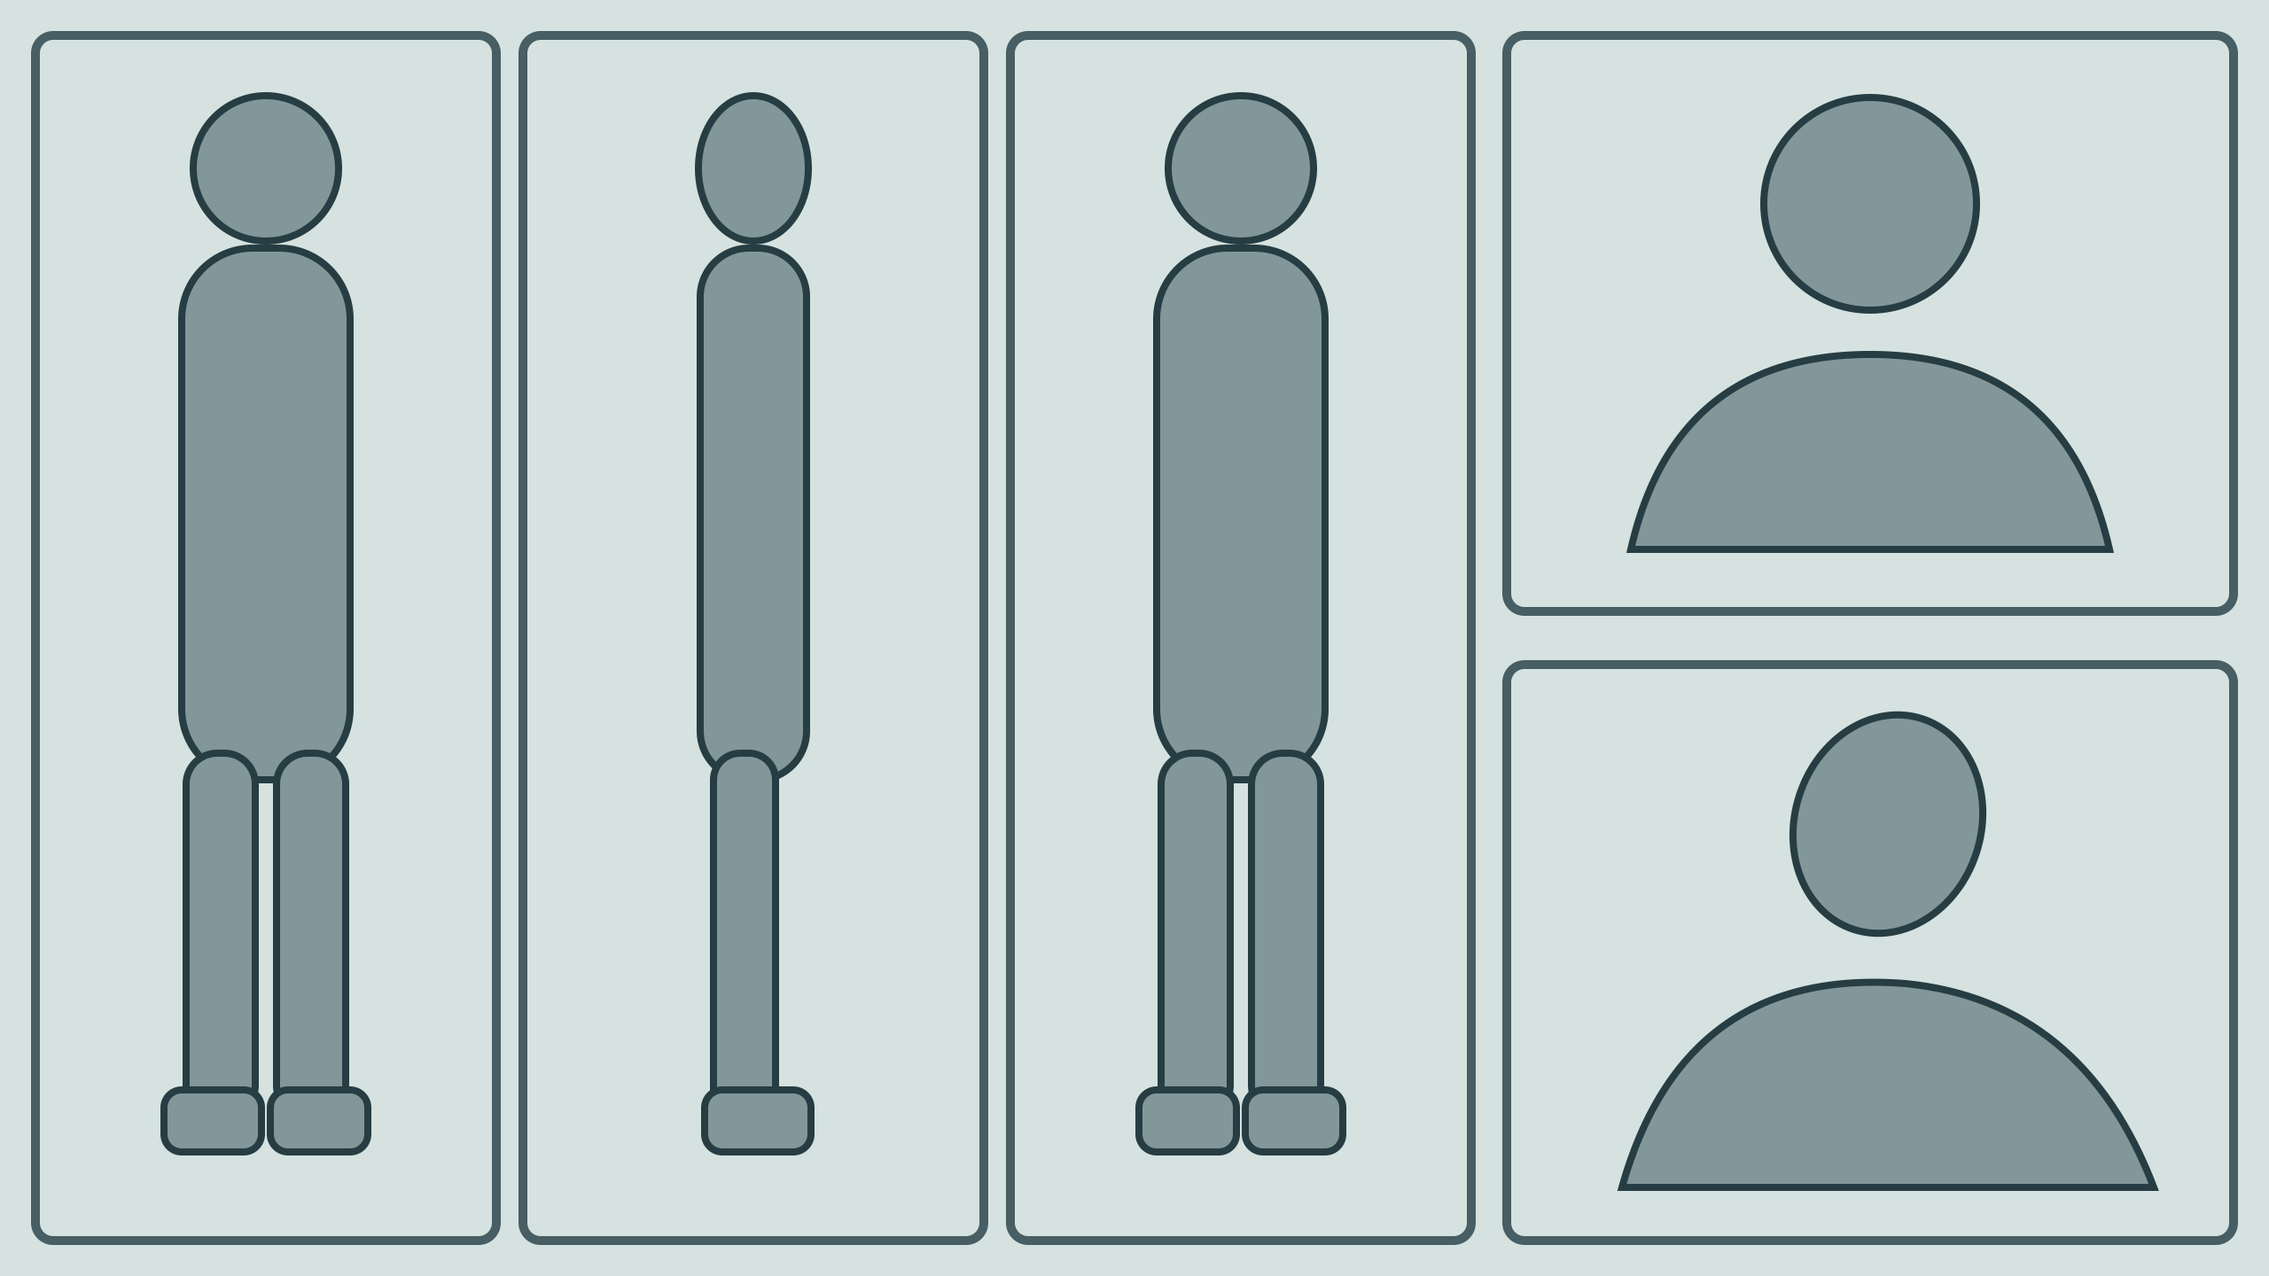
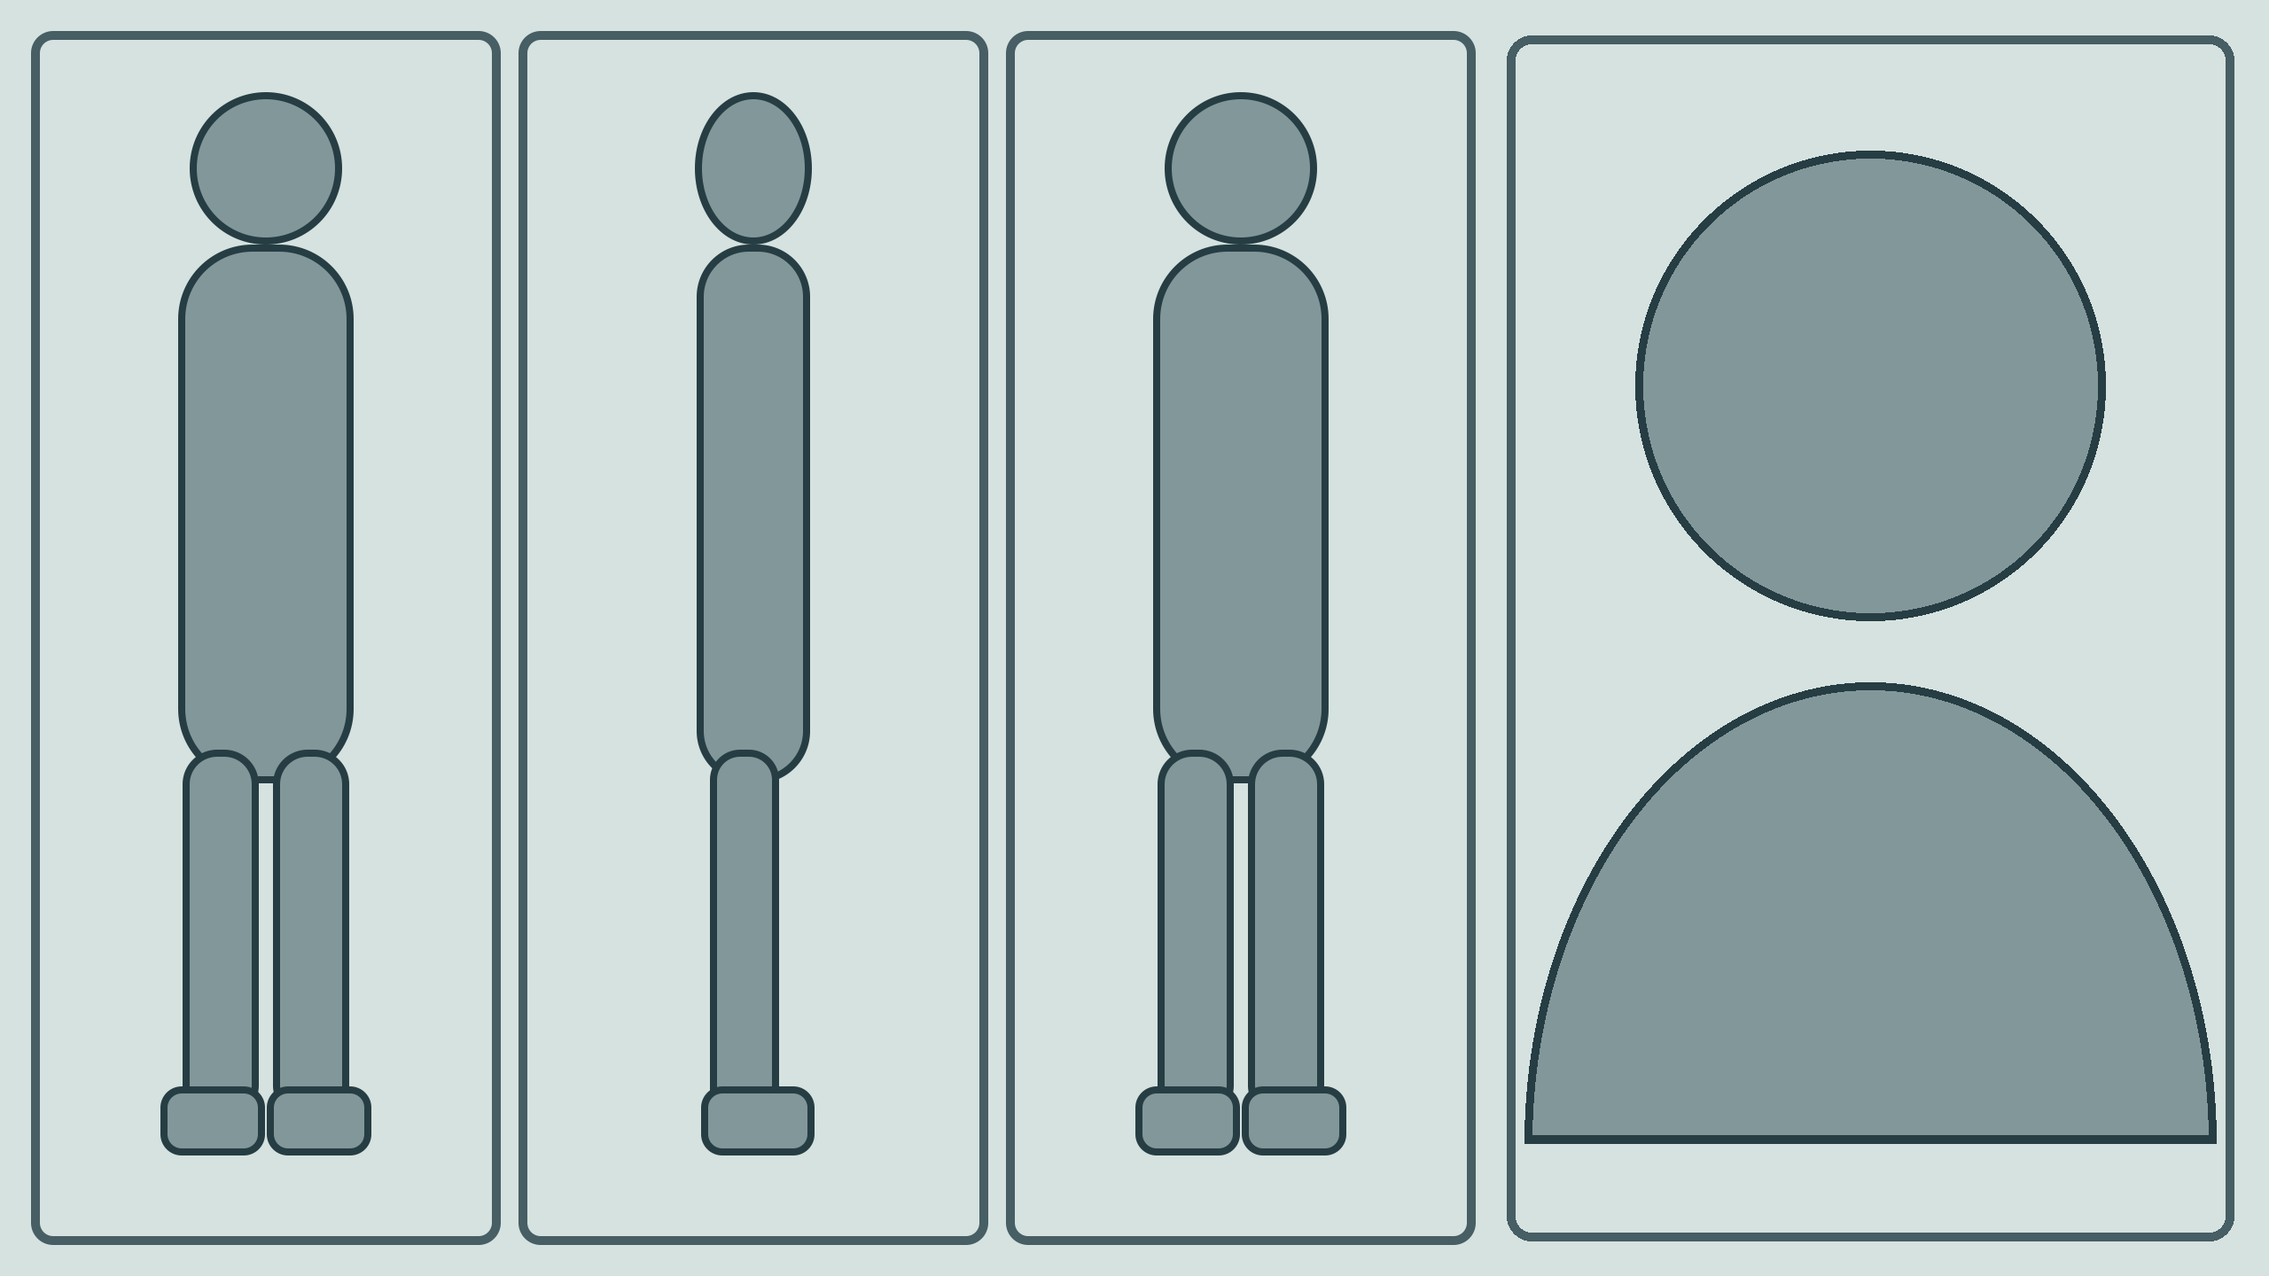
人物参考图模板五格改四格(参考 char-temp-2.png):右侧上下两格头肩特写合并为一格通高大头像,左三格全身正/侧/背不变。模板 PNG 左三格像素级保留、右列按原图取样配色/描边/圆角重画(通高面板+大号头肩剪影);语义 JSON panels 四格化,右格定为「头肩大特写,正面或微 3/4,中性表情,面部标志物清晰」;character-concept SOUL.md 版式句改 four-panel(one large head-and-shoulders close-up filling the right column),自检/机检(sheet 四格版式齐全)/彩铅化处置/输
Claude-Session: https://claude.ai/code/session_01XzbXjSPXTzsMhZk3baNsAM

Changed region(s): [[0.6562, 0.0, 1.0, 0.9688], [0.9688, 0.9375, 1.0, 0.9688]]

diff --git a/agents/06-art/character-concept/SOUL.md b/agents/06-art/character-concept/SOUL.md
@@ -12,7 +12,7 @@
 ## 职责
 
 1. 读取该角色 `appearance.json`(性别、发色、瞳色、体型、标志物…)与 `style.json`,编写人设图 prompt:正向要素逐项覆盖 appearance 字段,负面词全量来自 style.json 负面清单。**性别词必须显式入 prompt(2026-07-20)**:取 `gender`(有 `presented_gender` 以其为准——三视图画的是对外呈现形象),不写性别词 = 图像模型自行猜性别,三视图是全片形象唯一锚点,源头画错全片跟着错。
-2. **整图单次生成、单张直出(2026-08-04 三订)**:按五格版式模板生成整版 character sheet(全身三视图 + 两格头肩特写同框),**`--n 1` 只出一张,禁出多张候选赛马挑选**(10days003 CHAR-0003 前科:多候选整批不满足风格,张张白花钱);出图后自检「五格版式 → appearance 逐项 → style.json 风格契合」,自检不过按缺陷**定向重生成**(旧图移入 `<id>/candidates/` 留档,一次只重出一张),通过即定稿交用户检查;**用户检查反馈是修改的唯一驱动**——用户指出问题后按反馈逐条定向重出,不自行多版猜测,主目录始终只有当前定稿(见「输出」)。
+2. **整图单次生成、单张直出(2026-08-04 三订)**:按四格版式模板生成整版 character sheet(全身三视图 + 一格通高头肩大特写同框,2026-08-14 版式改版:原右侧两格特写并为一格大头像),**`--n 1` 只出一张,禁出多张候选赛马挑选**(10days003 CHAR-0003 前科:多候选整批不满足风格,张张白花钱);出图后自检「四格版式 → appearance 逐项 → style.json 风格契合」,自检不过按缺陷**定向重生成**(旧图移入 `<id>/candidates/` 留档,一次只重出一张),通过即定稿交用户检查;**用户检查反馈是修改的唯一驱动**——用户指出问题后按反馈逐条定向重出,不自行多版猜测,主目录始终只有当前定稿(见「输出」)。
 3. **定稿 sheet 单张即交付锚点,不裁切子图(2026-08-04 二订)**:下游(p7 prompt refs、character-consistency 比对、§6A 现货、§7E 修正取锚)一律直接取 `<id>/sheet.png` 整图作参考——整图同框天然保证各视角是同一个人,单张即含全身三视图 + 头肩特写;2560×1440 恰达视频参考像素下限(≥3,686,400,WORKFLOW.md §9),不得低于此尺寸。整图多视角同框带复制诱因,由 prompt 工位的 Identity lock 句 + 防重复长句硬约束兜住(其 SOUL.md 职责 2)。
 4. 对有分龄版本的角色,按 `age_versions.json` **每个年龄版本各出一张整图**(`sheet_<tag>.png`)并标注适用的时间轴区间;剧情需要的额外表情/服装版本同样整图出,不逐视角散出。
 5. 落盘 prompt 记录与逐字段对照表(selection.json:appearance 对照 + 历次重 roll 的缺陷原因/用户反馈),供重 roll 与追溯。
@@ -30,30 +30,30 @@
 
 ```bash
 python3 modules/genmedia.py info     # 当前渠道/模型记入 prompts.json
-# 整图单次生成(2026-08-04 三订):五格版式模板固定作第一张 --ref(版式锚),
-# 一次生成全身三视图 + 两格头肩特写;--n 1 单张直出,禁多候选赛马;
+# 整图单次生成(2026-08-04 三订):四格版式模板固定作第一张 --ref(版式锚),
+# 一次生成全身三视图 + 一格头肩大特写;--n 1 单张直出,禁多候选赛马;
 # 用户参考图排在模板之后;自检/用户反馈不过时按缺陷定向重生成(旧图先移入 candidates/)
 python3 modules/genmedia.py image \
-  --prompt "<版式句(五格内容与模板一一对应)+ 按 appearance+style.json 组织的角色要素>" \
+  --prompt "<版式句(四格内容与模板一一对应)+ 按 appearance+style.json 组织的角色要素>" \
   --ref agents/06-art/character-concept/templates/character_sheet_template.png \
   --output assets/concepts/characters/<id>/sheet.png --size 2560x1440 --n 1
 ```
 
 详见 WORKFLOW.md §9;失败如实上报,不伪造产物。
 
-### 整图版式模板(2026-08-04)
+### 整图版式模板(2026-08-04;2026-08-14 版式改版:右侧两格特写并为一格通高大头像)
 
-- **模板**:`agents/06-art/character-concept/templates/character_sheet_template.png`(2560×1440,随平台分发);五格语义见同目录 `character_sheet_template.json`——左三格全身正/侧/背,右上头肩特写正面(中性表情),右下头肩特写 3/4 侧(可带剧情关键表情)。
-- **prompt 必写版式句**:开头声明 "five-panel character reference sheet following the reference layout: three full-body views (front / side / back) left to right, front head-and-shoulders close-up top right, three-quarter close-up bottom right; the exact same character, outfit and proportions in every panel; plain background"(散文语言按 WORKFLOW.md 语言约定,五格内容须与模板格位一一对应)。
+- **模板**:`agents/06-art/character-concept/templates/character_sheet_template.png`(2560×1440,随平台分发);四格语义见同目录 `character_sheet_template.json`——左三格全身正/侧/背,右侧一格通高头肩大特写(正面或微 3/4,中性表情,面部标志物清晰)。
+- **prompt 必写版式句**:开头声明 "four-panel character reference sheet following the reference layout: three full-body views (front / side / back) left to right, and one large head-and-shoulders close-up filling the right column; the exact same character, outfit and proportions in every panel; plain background"(散文语言按 WORKFLOW.md 语言约定,四格内容须与模板格位一一对应)。
 - **尺寸**:`--size 2560x1440` 起(模板原生,恰达视频参考像素下限);当前渠道支持更高 16:9 档(如方舟 4096x2304)时可用高档,严禁低于 2560×1440。
-- **版式自检**:五格齐全、每格恰含一个完整视角、五格互为同一人同一装;版式明显偏离模板(缺格/串格/多人)即自检失败,旧图移入 `candidates/` 后定向重生成一张,不并行多出。
+- **版式自检**:四格齐全、每格恰含一个完整视角、四格互为同一人同一装;版式明显偏离模板(缺格/串格/多人)即自检失败,旧图移入 `candidates/` 后定向重生成一张,不并行多出。
 - **例外(条件回退)**:仅当当前图像渠道不支持参考图注入(纯文生图,`--ref` 不可用)时,先按版式句纯文生图尝试整版 sheet;版式仍命不中再退回逐视角出图旧流程(先出正面,再以正面图作 `--ref` 出侧/背与特写),末了用 `ffmpeg -filter_complex hstack` 把三视图拼成单张 `sheet.png` 交付,保持下游单文件契约;prompts.json 记录回退原因。
 
 ### 真人脸审核拒收的条件处置(脸部彩铅化)
 
 - **触发条件(仅此一种,正常出图流程不做)**:下游视频生成渠道审核拒绝含**真实人脸(photoreal face)**的参考图,且 video-generation 按其排查流程(逐张探测)定位到被拒图是本工位的 sheet,经 orchestrator 回派到我。
-- **处置**:对 sheet 里**所有人物的脸部做彩铅化**(colored pencil 风格重绘脸部),**身体与背景保留原图质感**——以原 sheet 作 `--ref` 定向重生成一张,prompt 写明「仅将所有人物脸部改为彩铅(colored pencil)质感,身体、服装、背景与五格版式与参考图保持完全一致」;有分龄/表情/服装 variant 且同被拒收的,逐张同法处理。
-- **落盘纪律**:旧图先移入 `candidates/` 留档,彩铅化版作为新定稿落主目录(单文件契约不变);selection.json 的 rerolls 记录原因(真人脸审核拒收)并通知下游更新锚点引用。彩铅化版仍是全片唯一形象锚:五格版式、尺寸下限(≥2560×1440)、appearance 逐项命中等既有机检标准照常适用,character-consistency 的人脸相似度比对随之以彩铅化版为基准。
+- **处置**:对 sheet 里**所有人物的脸部做彩铅化**(colored pencil 风格重绘脸部),**身体与背景保留原图质感**——以原 sheet 作 `--ref` 定向重生成一张,prompt 写明「仅将所有人物脸部改为彩铅(colored pencil)质感,身体、服装、背景与四格版式与参考图保持完全一致」;有分龄/表情/服装 variant 且同被拒收的,逐张同法处理。
+- **落盘纪律**:旧图先移入 `candidates/` 留档,彩铅化版作为新定稿落主目录(单文件契约不变);selection.json 的 rerolls 记录原因(真人脸审核拒收)并通知下游更新锚点引用。彩铅化版仍是全片唯一形象锚:四格版式、尺寸下限(≥2560×1440)、appearance 逐项命中等既有机检标准照常适用,character-consistency 的人脸相似度比对随之以彩铅化版为基准。
 
 ## 用户参考图(优先注入)
 
@@ -83,7 +83,7 @@ python3 modules/genmedia.py image \
 关键字段/结构约定:
 ```json
 {
-  "sheet": "sheet.png(整版定稿,唯一形象锚:全身正/侧/背 + 两格头肩特写同框)",
+  "sheet": "sheet.png(整版定稿,唯一形象锚:全身正/侧/背 + 一格头肩大特写同框)",
   "variants": ["sheet_age2.png", "sheet_battle_outfit.png"],
   "prompts": "prompts.json(每张整图的生成参数)",
   "selection": { "appearance_field_hits": { "发色": true, "标志物": true },
@@ -110,7 +110,7 @@ instruction: |
 
 **机检(不过直接退回)**:
 - 与 appearance 字段逐项对照:**性别呈现与 gender(presented_gender 优先)一致且 prompt 命中性别词(2026-07-20)**;必现标志物 100% 出现,无冲突项;
-- **sheet 五格版式齐全**(全身正/侧/背 + 两格头肩特写,五格同一人同一装)、**sheet ≥3,686,400 像素**(2560×1440 起,进视频参考硬限)、**主目录无 front/side/back 等单视角散图**(单文件契约);prompt 记录完整可追溯。
+- **sheet 四格版式齐全**(全身正/侧/背 + 一格通高头肩大特写,四格同一人同一装)、**sheet ≥3,686,400 像素**(2560×1440 起,进视频参考硬限)、**主目录无 front/side/back 等单视角散图**(单文件契约);prompt 记录完整可追溯。
 
 **评分(evaluation Agent,rubric visual_gen_v1,阈值 80;按 §7 适用「图像产物」)**:
 - 与设计稿匹配(35):appearance 逐项命中;

diff --git a/agents/WORKFLOW.md b/agents/WORKFLOW.md
@@ -282,7 +282,7 @@ refs/
 | Agent | 工作指令(要点) | 输入 | 输出 | 校验 |
 |---|---|---|---|---|
 | art-director | 制定全片风格圣经:画风、渲染流派、参考片、负面清单(禁止元素);**先盘点 refs/,风格决策以用户参考图为准并在 style.json 记录对应关系** | Bible、用户偏好、**refs/(用户参考图,§2)** | `bible/style.json` | 评分 creative_v1;**H2 由用户签字锁定** |
-| character-concept | 为 S/A 级角色出人设参考图;**整图单次生成、单张即锚(2026-08-04 二订)**:五格版式模板(`agents/06-art/character-concept/templates/character_sheet_template.png`,随平台分发)作第一张 `--ref` 一次生成全身三视图+两格头肩特写同框的整版 sheet,定稿 `<id>/sheet.png` 单张直接作下游视频参考,**不裁切子图**(front/side/back 多文件旧契约废止),替代逐视角多次生成;**`--n 1` 单张直出,禁多候选赛马(2026-08-04 三订,CHAR-0003 前科:多候选整批不满足风格)——自检不过或用户检查有意见时按缺陷/反馈定向重出一张,用户反馈是修改唯一驱动**;整图多视角同框的复制诱因由 p7 prompt 的 Identity lock 句+防重复长句硬约束兜住;**refs/characters/ 命中该角色的参考图必须经 --ref 注入(排在模板后)并记录** | appearance、style.json、refs/characters/ 与 refs/style/ | `assets/concepts/characters/<id>/` | 机检:与 appearance 字段逐项对照;sheet 五格版式齐全、≥3,686,400 像素(2560x1440 起)、主目录无单视角散图;QA:visual-qa + character-consistency-qa 打分 ≥80 |
+| character-concept | 为 S/A 级角色出人设参考图;**整图单次生成、单张即锚(2026-08-04 二订)**:四格版式模板(`agents/06-art/character-concept/templates/character_sheet_template.png`,随平台分发;2026-08-14 版式改版:右侧两格特写并为一格通高大头像)作第一张 `--ref` 一次生成全身三视图+一格头肩大特写同框的整版 sheet,定稿 `<id>/sheet.png` 单张直接作下游视频参考,**不裁切子图**(front/side/back 多文件旧契约废止),替代逐视角多次生成;**`--n 1` 单张直出,禁多候选赛马(2026-08-04 三订,CHAR-0003 前科:多候选整批不满足风格)——自检不过或用户检查有意见时按缺陷/反馈定向重出一张,用户反馈是修改唯一驱动**;整图多视角同框的复制诱因由 p7 prompt 的 Identity lock 句+防重复长句硬约束兜住;**refs/characters/ 命中该角色的参考图必须经 --ref 注入(排在模板后)并记录** | appearance、style.json、refs/characters/ 与 refs/style/ | `assets/concepts/characters/<id>/` | 机检:与 appearance 字段逐项对照;sheet 四格版式齐全、≥3,686,400 像素(2560x1440 起)、主目录无单视角散图;QA:visual-qa + character-consistency-qa 打分 ≥80 |
 | environment-concept | 关键场景概念图;**refs/scenes/ 命中的参考图经 --ref 注入并记录** | scene、architecture、lighting、style、refs/scenes/ 与 refs/style/ | `assets/concepts/scenes/<id>/` | QA:visual-qa 对照 style.json |
 | prop | 武器/道具/法宝设定卡+参考图;优先参考 refs/props/;**剧情道具必填 `scale` 三字段(canonical_size 数值仲裁/relative_anchor 相对参照/prompt_token 全片唯一英文短语)并出比例锚图 scale_ref_01.png(道具与持有角色同框)**——跨 clip 尺度一致性的源头锚 | structured_story、style、refs/props/ | `bible/props.json` | 机检:关键道具(剧情道具)覆盖率 100%;剧情道具 scale 字段齐 + 比例锚图落盘(prop_scale_defined) |
 | costume | 服装系统(按角色×场合×时期);优先参考 refs/props/costumes/ 与 refs/characters/ | appearance、culture、story_timeline、refs/ | `bible/costumes.json` | QA:continuity 维度预审(换装点明确) |

diff --git a/CHANGELOG.md b/CHANGELOG.md
@@ -10,6 +10,11 @@ All notable public changes to VideoAgents are documented here.
 - DeepSeek Smart Assignment model strategy (Settings → Model Strategy): creative-core agents run on `opencode-go/deepseek-v4-pro`, all other agents on `opencode-go/deepseek-v4-flash` (the OpenCode Go subscription channel), using the same task-complexity tiers as the existing Claude/Codex/Kimi smart strategies.
 - OpenCode Go usage in the Resource Usage panel: a new toggle in Settings → Resource Usage queries the OpenCode Go subscription quota (5-hour/weekly windows) via the official console endpoint, using either a configured API Key or, when left blank, the local opencode login credential. All 11 language dictionaries updated.
 
+### Changed
+
+- Character reference sheet template redesigned from five panels to four: the two stacked head-and-shoulders close-ups on the right are merged into a single full-height large close-up (three full-body views front/side/back on the left are unchanged). Template PNG, panel semantics JSON, the character-concept agent's layout prompt/self-check contract and WORKFLOW.md updated accordingly.
+- Settings menu reorganized: Plugins is promoted from the Advanced submenu to a top-level item right below Resource Usage, and the Advanced submenu now sits above Interface Language.
+
 ## [1.0.15] - 2026-08-13
 
 ### Added
